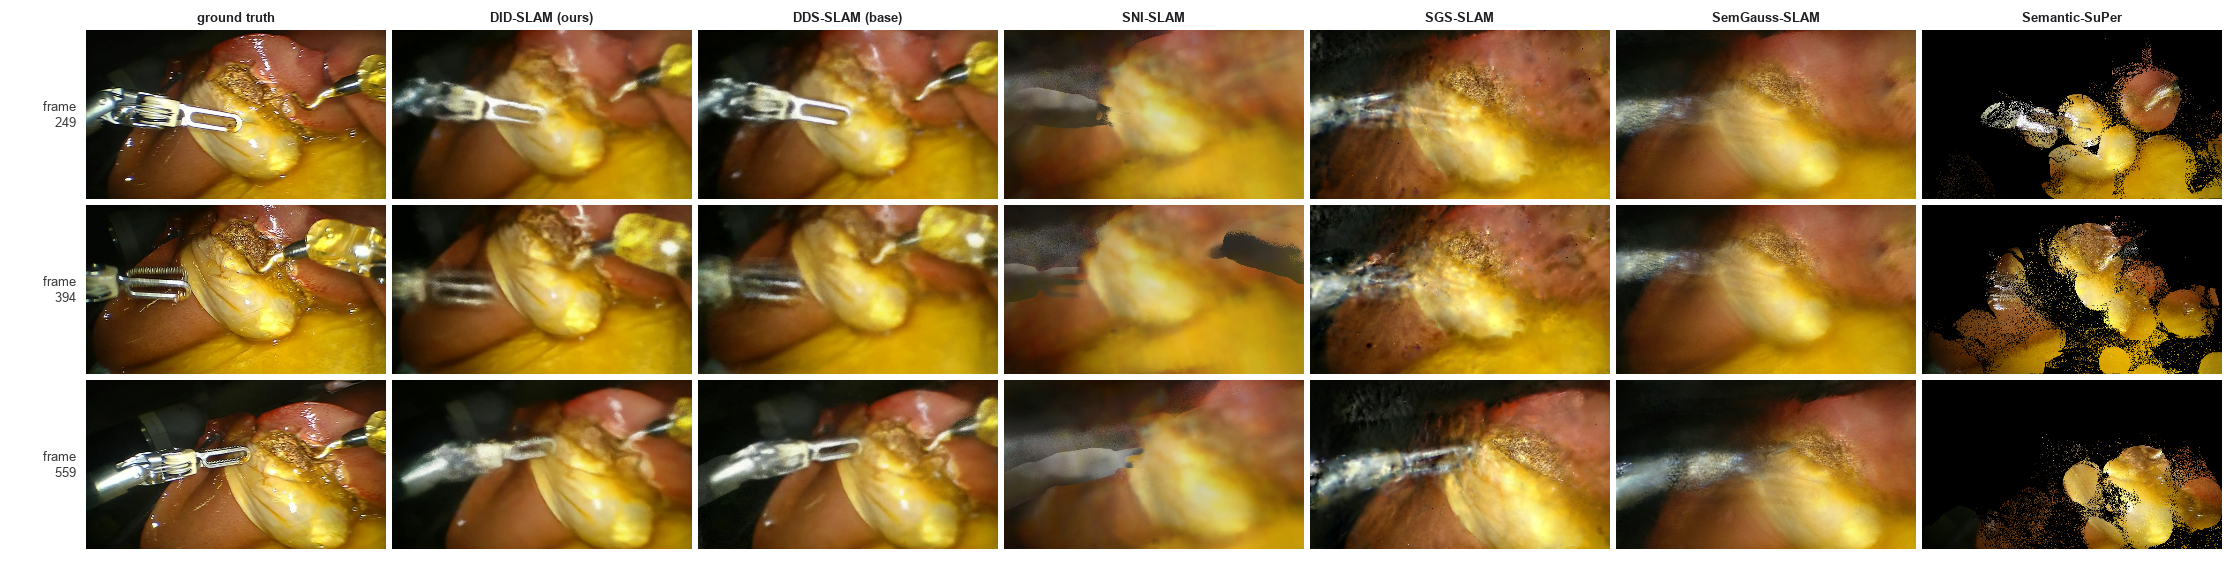
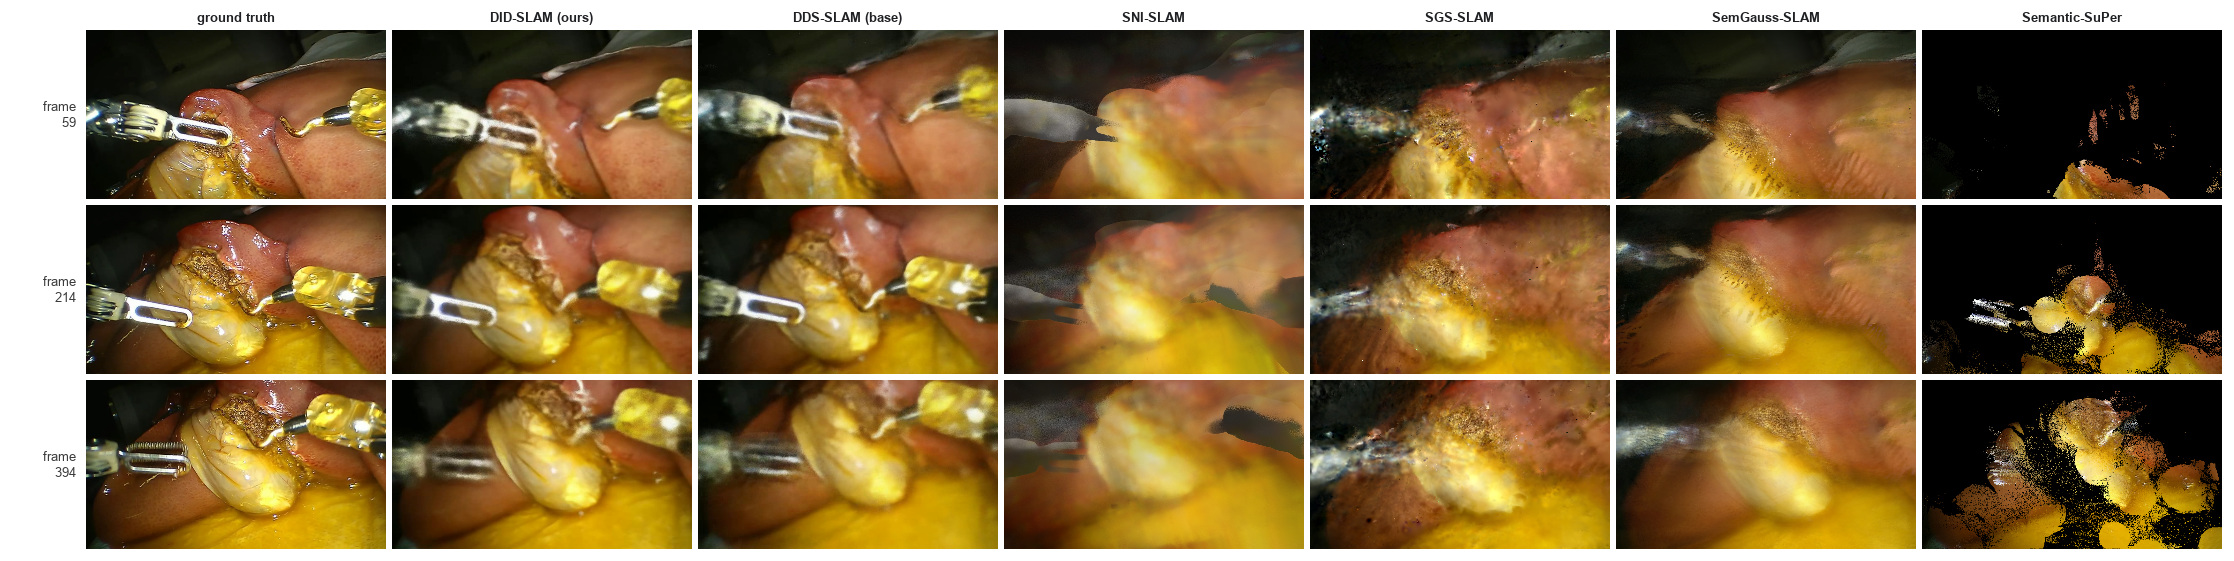
fig_render_compare: prefer frames where DID-SLAM beats the base on PSNR
Selection: DID > base + 0.1dB with all systems viable (min PSNR >= 8),
ranked by the DID-base delta, picks >= 40 frames apart; joint-best fallback.
Frames 59/214/394, DID +1.5 to +2.3dB over the base on each.

diff --git a/Addons/viz/gen_render_compare.py b/Addons/viz/gen_render_compare.py
@@ -65,11 +65,9 @@ def main():
 
     sgs_idx = sorted(int(m.group(1)) for f in os.listdir(SRC['sgs'])
                      if (m := re.match(r'^(\d+)\.jpg$', f)))
-    sgs_idx = [i for i in sgs_idx if i >= 60]   # skip the trivial fresh-map opening
-    scores = {}
+    stats = {}   # idx -> (did_psnr, base_psnr, min_all)
     for i in sgs_idx:
-        gtp = f"{SRC['semgauss']}/{i}_gt.png"
-        gt = cv2.imread(gtp)
+        gt = cv2.imread(f"{SRC['semgauss']}/{i}_gt.png")
         if gt is None:
             continue
         try:
@@ -78,15 +76,23 @@ def main():
             continue
         if any(v is None for v in tiles.values()):
             continue
-        scores[i] = min(psnr(v, gt) for v in tiles.values())
-    a, b = min(scores), max(scores) + 1
-    third = (b - a) // 3
+        ps = {k: psnr(v, gt) for k, v in tiles.items()}
+        stats[i] = (ps['DID-SLAM (ours)'], ps['DDS-SLAM (base)'], min(ps.values()))
+
+    # prefer frames where DID beats the base on PSNR (viable for everyone else);
+    # fall back to the highest joint minimum. Keep picks >= 40 frames apart.
+    pref = sorted((i for i, (d, b, m) in stats.items() if d > b + 0.1 and m >= 8.0),
+                  key=lambda i: stats[i][0] - stats[i][1], reverse=True)
+    fallback = sorted(stats, key=lambda i: stats[i][2], reverse=True)
     picks = []
-    for lo, hi in [(a, a + third), (a + third, a + 2 * third), (a + 2 * third, b)]:
-        cand = {i: s for i, s in scores.items() if lo <= i < hi}
-        picks.append(max(cand, key=cand.get))
-    print('picked frames (best min-PSNR per third):', picks,
-          '| scores:', [round(scores[i], 2) for i in picks])
+    for pool in (pref, fallback):
+        for i in pool:
+            if len(picks) == 3:
+                break
+            if all(abs(i - p) >= 40 for p in picks):
+                picks.append(i)
+    picks = sorted(picks)
+    print('picked:', picks, '| (did, base, min):', [tuple(round(x, 2) for x in stats[i]) for i in picks])
 
     COLS = ['ground truth', 'DID-SLAM (ours)', 'DDS-SLAM (base)', 'SNI-SLAM',
             'SGS-SLAM', 'SemGauss-SLAM', 'Semantic-SuPer']

diff --git a/thesis.tex b/thesis.tex
@@ -892,10 +892,11 @@ Figures~\ref{fig:traj3d_compare} and \ref{fig:render_compare} put the two halves
 \begin{figure}[!ht]
     \centering
     \includegraphics[width=\linewidth]{figures/fig_render_compare.png}
-    \caption{Three C\_2/001 frames (early, mid, late) rendered by every render-capable
-    system, against the input frame. Frames are chosen where all systems score
-    their best joint PSNR, so each row shows every system near its best. DID-SLAM
-    and the base render sharpest; SNI-SLAM blurs where its depth-pinned sampling
+    \caption{Three C\_2/001 frames rendered by every render-capable system, against
+    the input frame. Frames are chosen where DID-SLAM's per-frame PSNR exceeds the
+    base's while every system remains viable, so the rows show the comparison at
+    points where all systems function. DID-SLAM renders sharpest with the base
+    ghosting the moving instrument; SNI-SLAM blurs where its depth-pinned sampling
     finds no surface; the splatting systems smear under camera travel; and
     Semantic-SuPer's rasterised surfels grow sparse as the sequence progresses.
     PERSEUS is tracking-only and renders nothing.}
